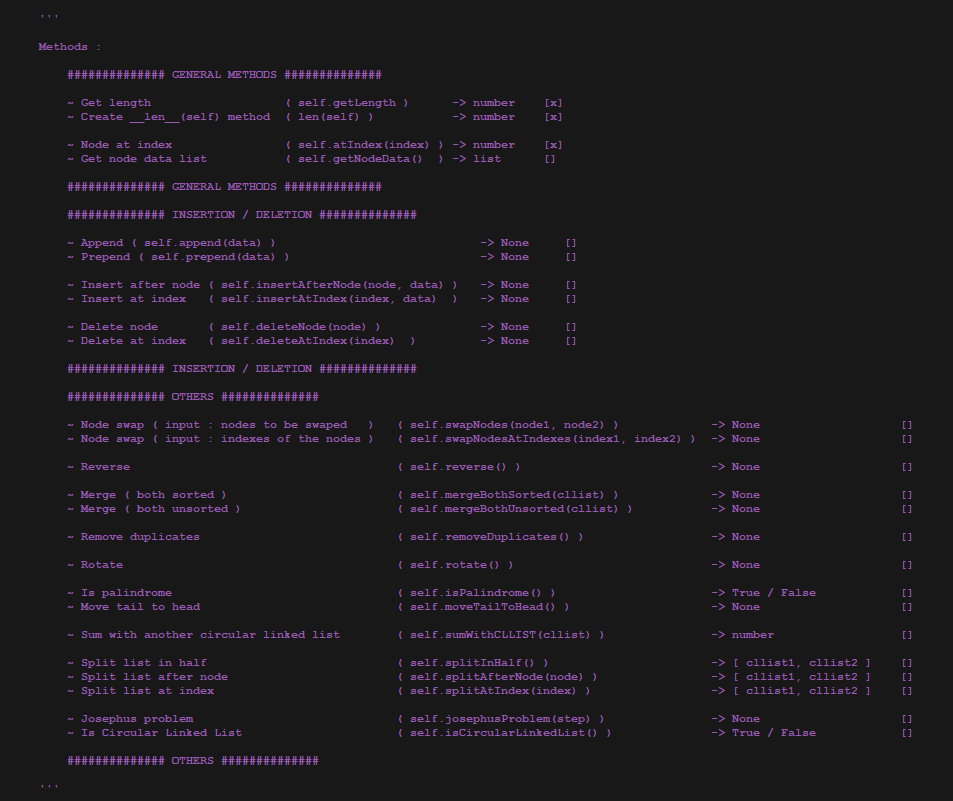
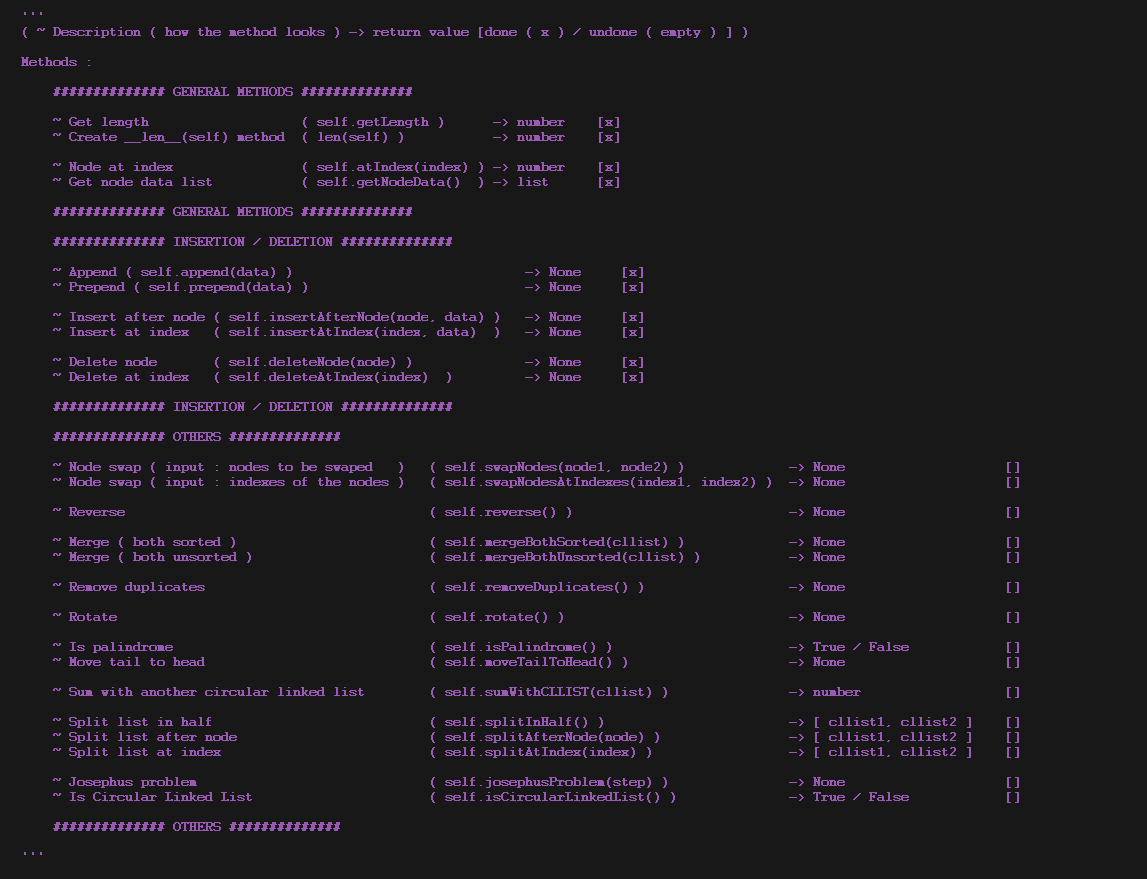
Circular Linked List Final Code - Done with general & insertion & deletion section. TODO: the 'others' method section

diff --git a/Data structures ( code in python )/Circular Linked List ( Python Code )/CircularLinkedList_FinalCode.py b/Data structures ( code in python )/Circular Linked List ( Python Code )/CircularLinkedList_FinalCode.py
@@ -13,6 +13,7 @@ class CircularLinkedList(object):
         self.length = 0
 
         '''
+        ( ~ Description ( how the method looks ) -> return value [done ( x ) / undone ( empty ) ] )
 
         Methods :
     
@@ -22,20 +23,20 @@ class CircularLinkedList(object):
             ~ Create __len__(self) method  ( len(self) )           -> number    [x]
             
             ~ Node at index                ( self.atIndex(index) ) -> number    [x]
-            ~ Get node data list           ( self.getNodeData()  ) -> list      []
+            ~ Get node data list           ( self.getNodeData()  ) -> list      [x]
 
             ############## GENERAL METHODS ##############
 
             ############## INSERTION / DELETION ##############
             
-            ~ Append ( self.append(data) )                             -> None     []
-            ~ Prepend ( self.prepend(data) )                           -> None     []
+            ~ Append ( self.append(data) )                             -> None     [x]
+            ~ Prepend ( self.prepend(data) )                           -> None     [x]
 
-            ~ Insert after node ( self.insertAfterNode(node, data) )   -> None     []
-            ~ Insert at index   ( self.insertAtIndex(index, data)  )   -> None     []
+            ~ Insert after node ( self.insertAfterNode(node, data) )   -> None     [x]
+            ~ Insert at index   ( self.insertAtIndex(index, data)  )   -> None     [x]
 
-            ~ Delete node       ( self.deleteNode(node) )              -> None     []
-            ~ Delete at index   ( self.deleteAtIndex(index)  )         -> None     []
+            ~ Delete node       ( self.deleteNode(node) )              -> None     [x]
+            ~ Delete at index   ( self.deleteAtIndex(index)  )         -> None     [x]
 
             ############## INSERTION / DELETION ##############
 
